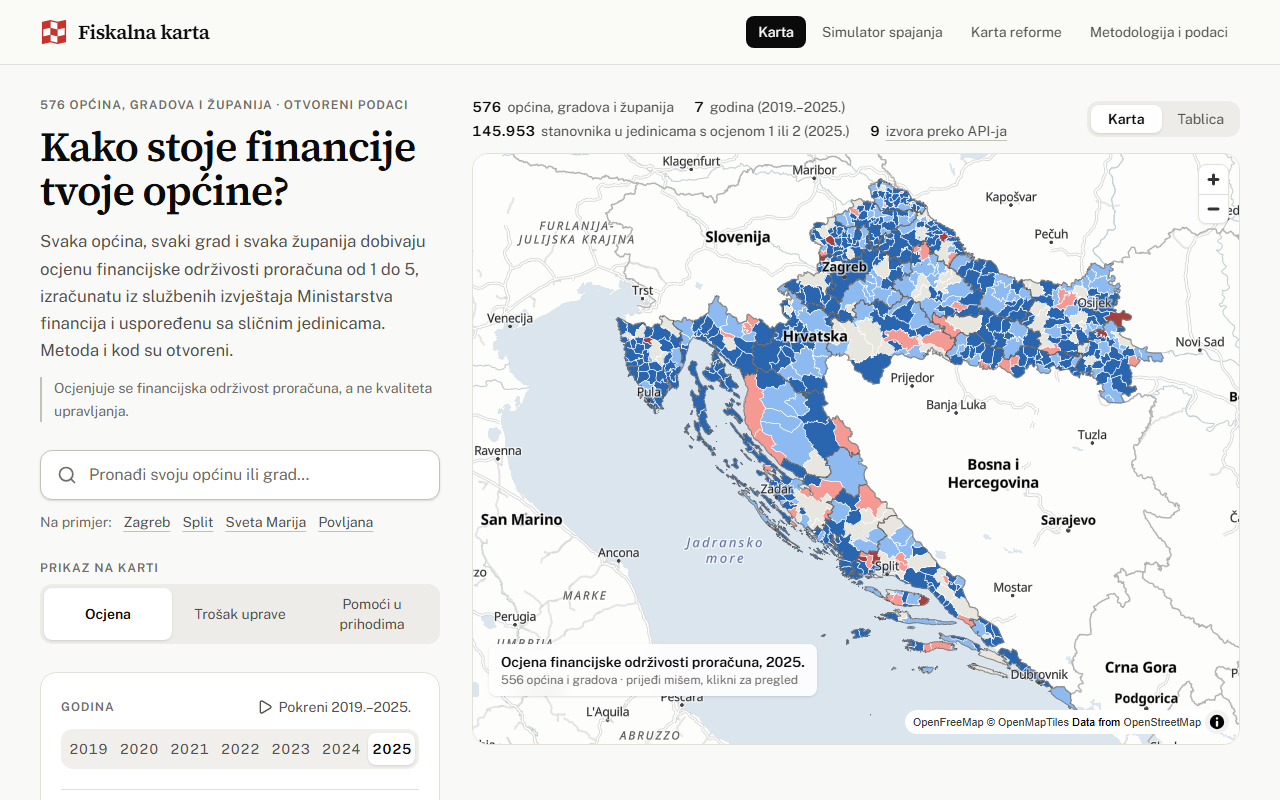
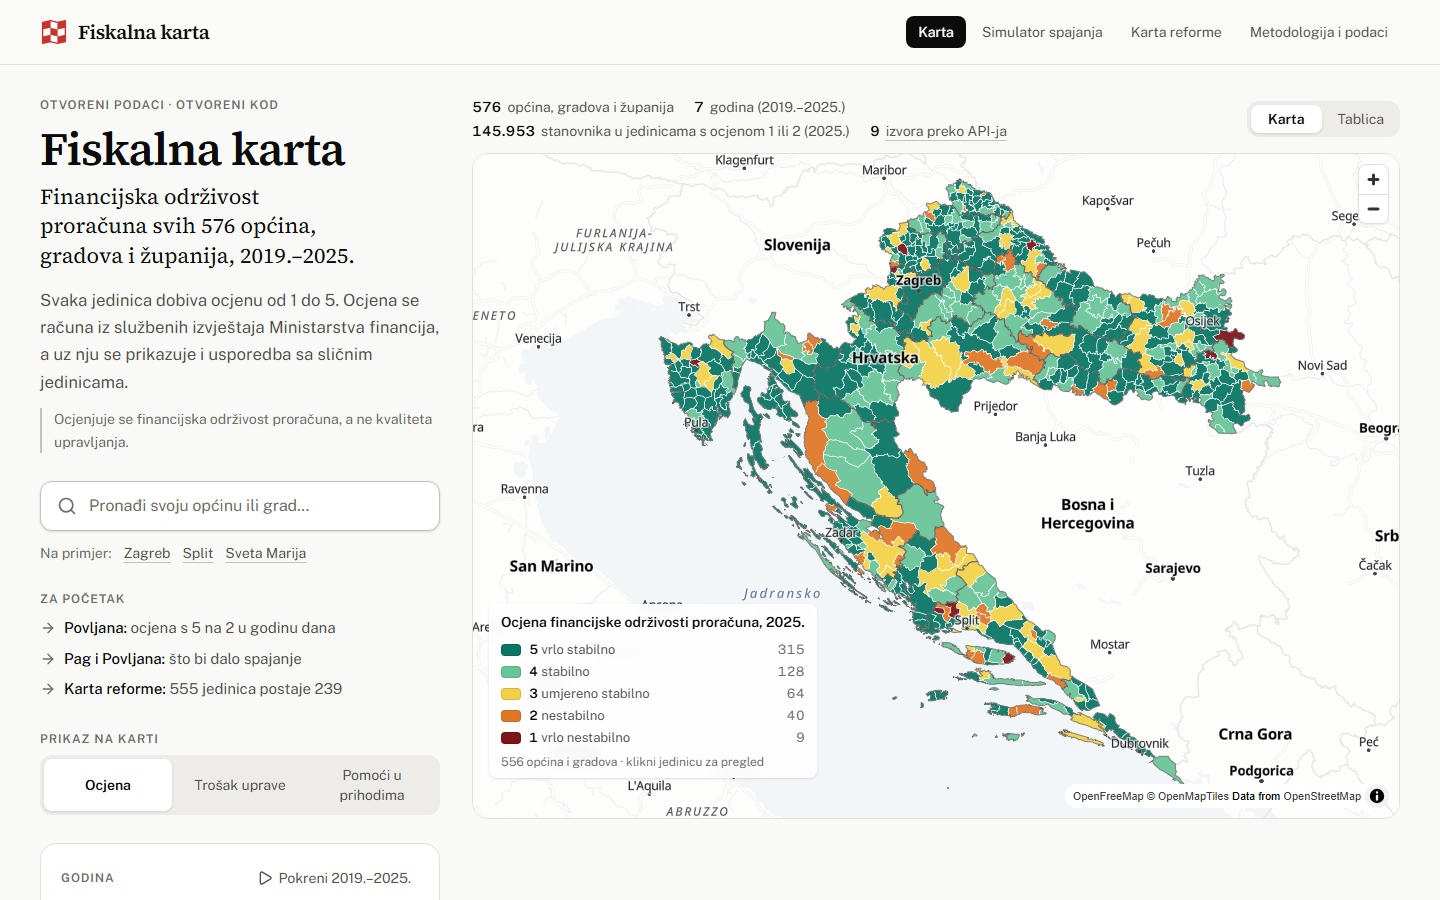
Nova snimka naslovnice za README: stranica uživo s bojama od zelene do crvene (1440×900) [skip ci]
Snimka je sa stranice uživo nakon deploya 79850e9; [skip ci] jer se mijenjaju samo README slika i TODO, a stranica je već objavljena.

diff --git a/docs/TODO.md b/docs/TODO.md
@@ -17,7 +17,7 @@
 - [x] Nova ikona i favicon: v3 (presavijena karta od šahovnice); korisnik je možda još promijeni.
 - [ ] Sitnice s karte koje je agent primijetio: teški obrubi oko malih otoka, na mobitelu zaglavlje prekriva natpis Karte reforme, natpis na karti na 1280 px prekriva sjever.
 - [x] Snimka naslovnice u README, nakon karte i ikone. (5.11. noću, `docs/snimke/naslovnica.png`; uključuje prijedloge U-a)
-- [ ] **8.11.: ponovno snimiti naslovnicu za README** (do tada će biti još promjena).
+- [x] Nova snimka naslovnice za README (6.11., stranica uživo, 1440×900, nove boje ocjena). Ako se naslovnica još mijenja, snimiti ponovno 8.11.
 - [x] AI tekstovi: ponovno generiranje 5.11. navečer, nakon UI sesije (Gemma 4 31B, `kaggle/results/gemma_batch_2025_31b_q4_0_v2.json`): **561 od 576** prolazi provjeru (550 iz prvog pokušaja), ostalih 15 ide na predložak. 253 teksta imaju rečenicu konteksta (stanovništvo, dohodak).
 - [ ] Sitnica u AI tekstovima: kad je medijan skupine negativan slobodni saldo, model prepiše vrijednost doslovno ("uz medijan skupine od nedostaje 1,7 % tekućih prihoda", npr. Međimurska županija; 14 tekstova). Popravak traži promjenu paketa, a time i novi batch; ne isplati se prije predaje.
 
